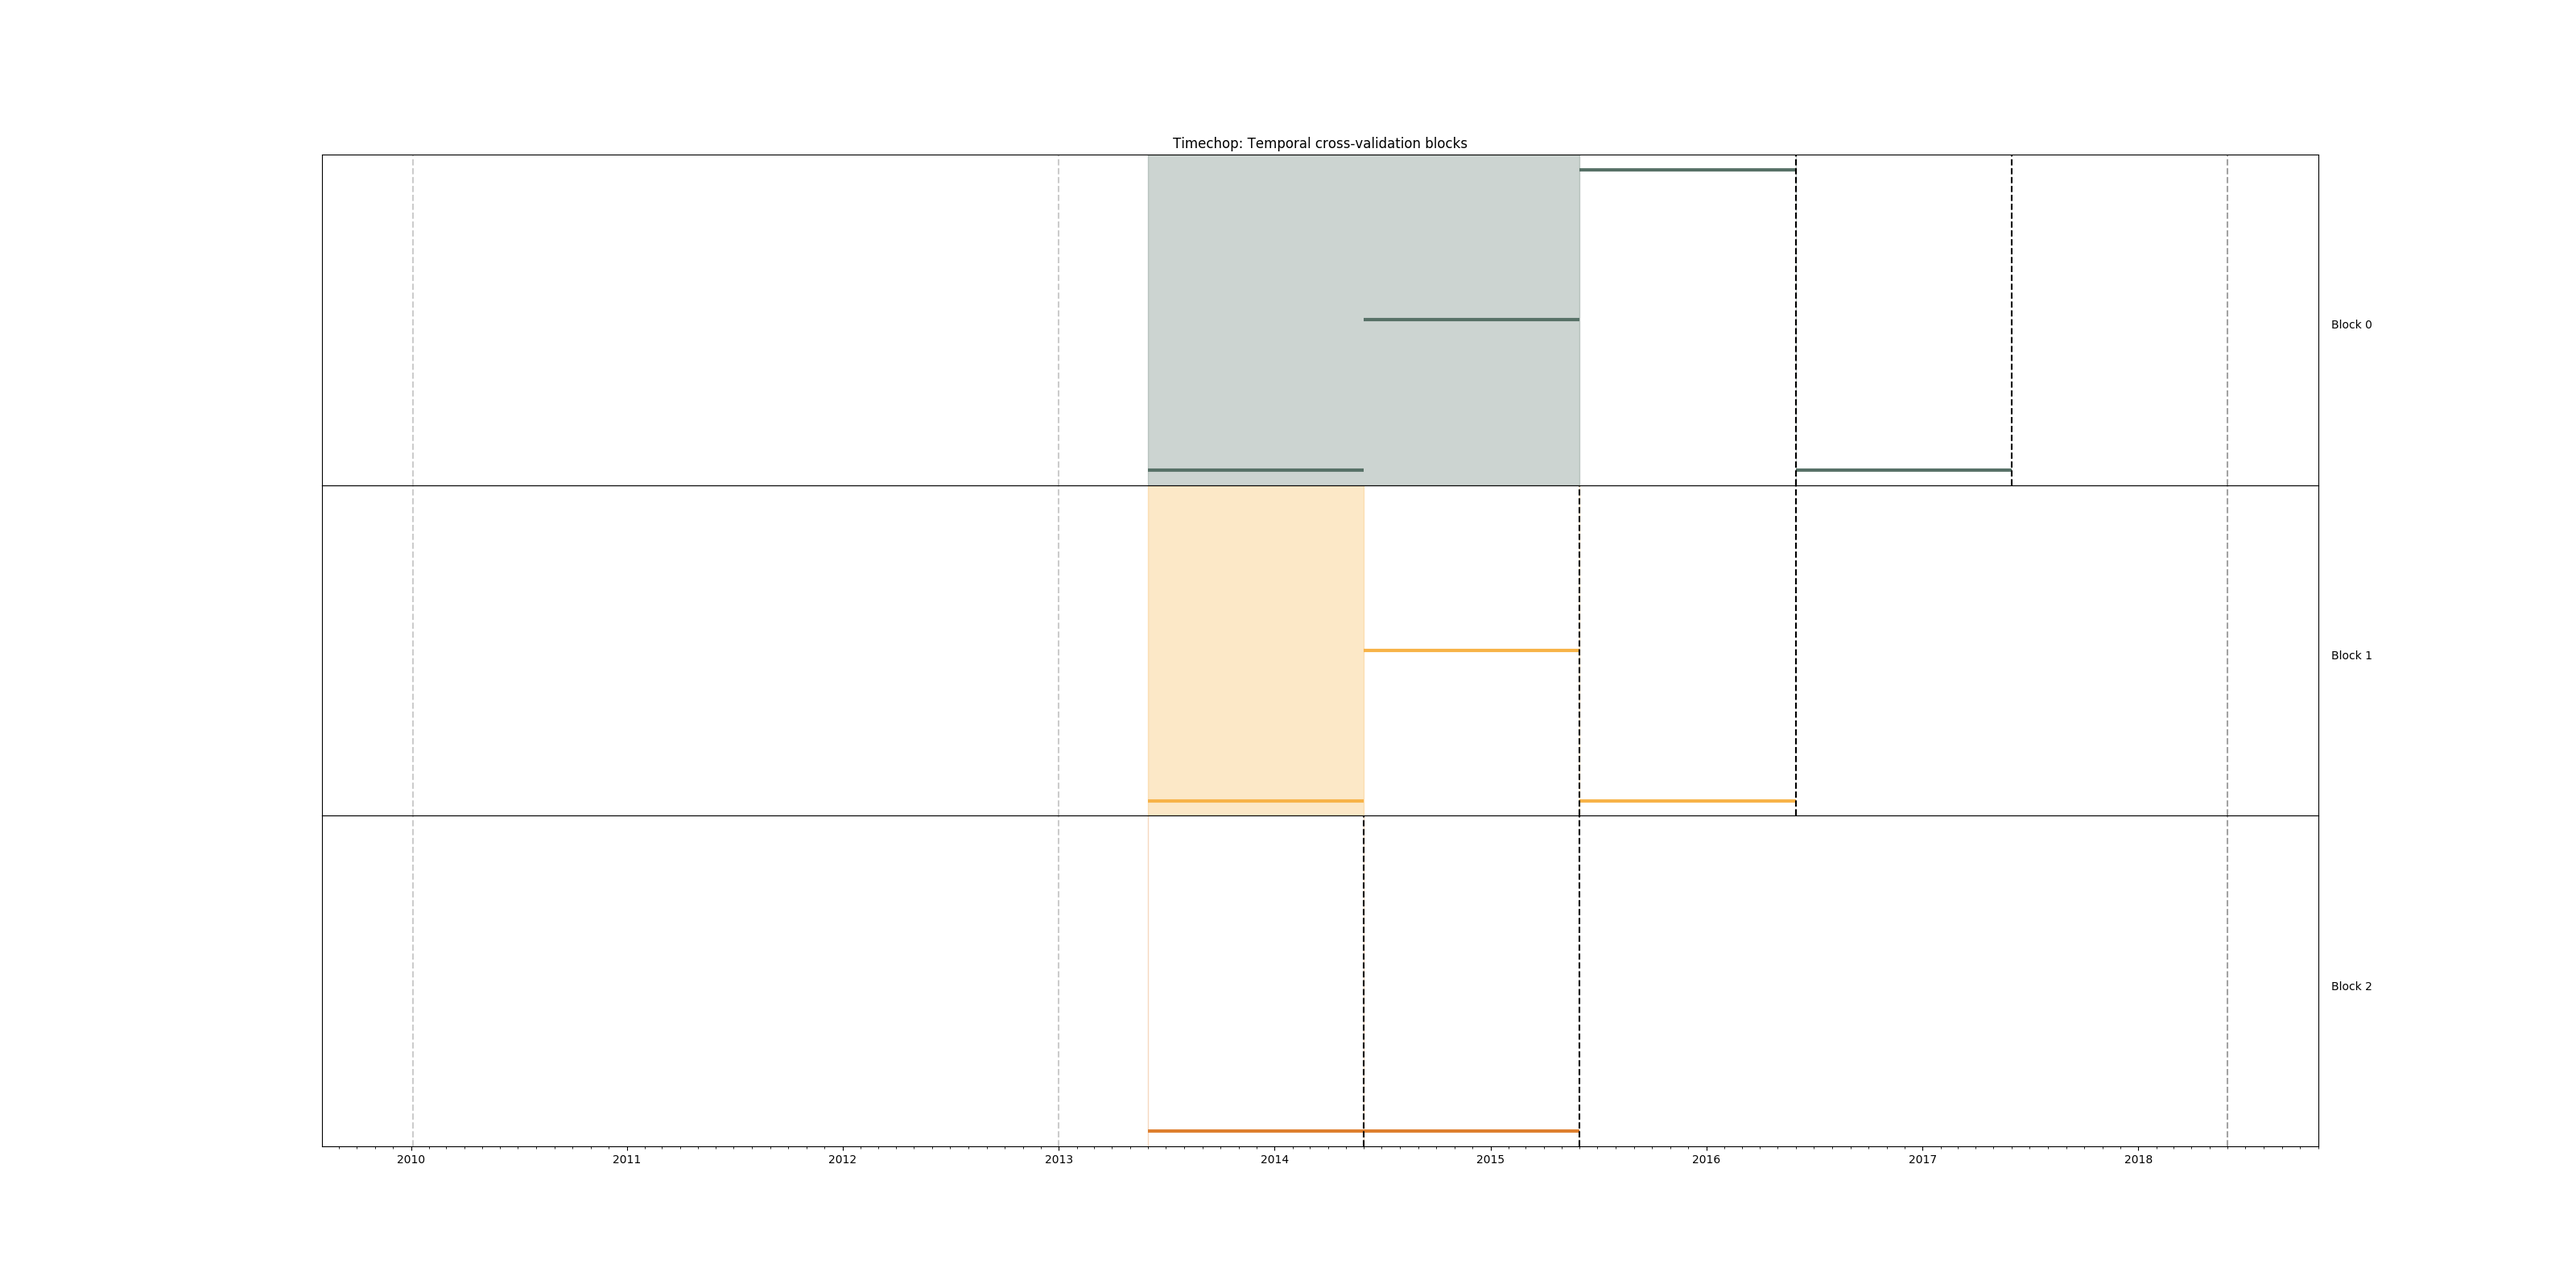
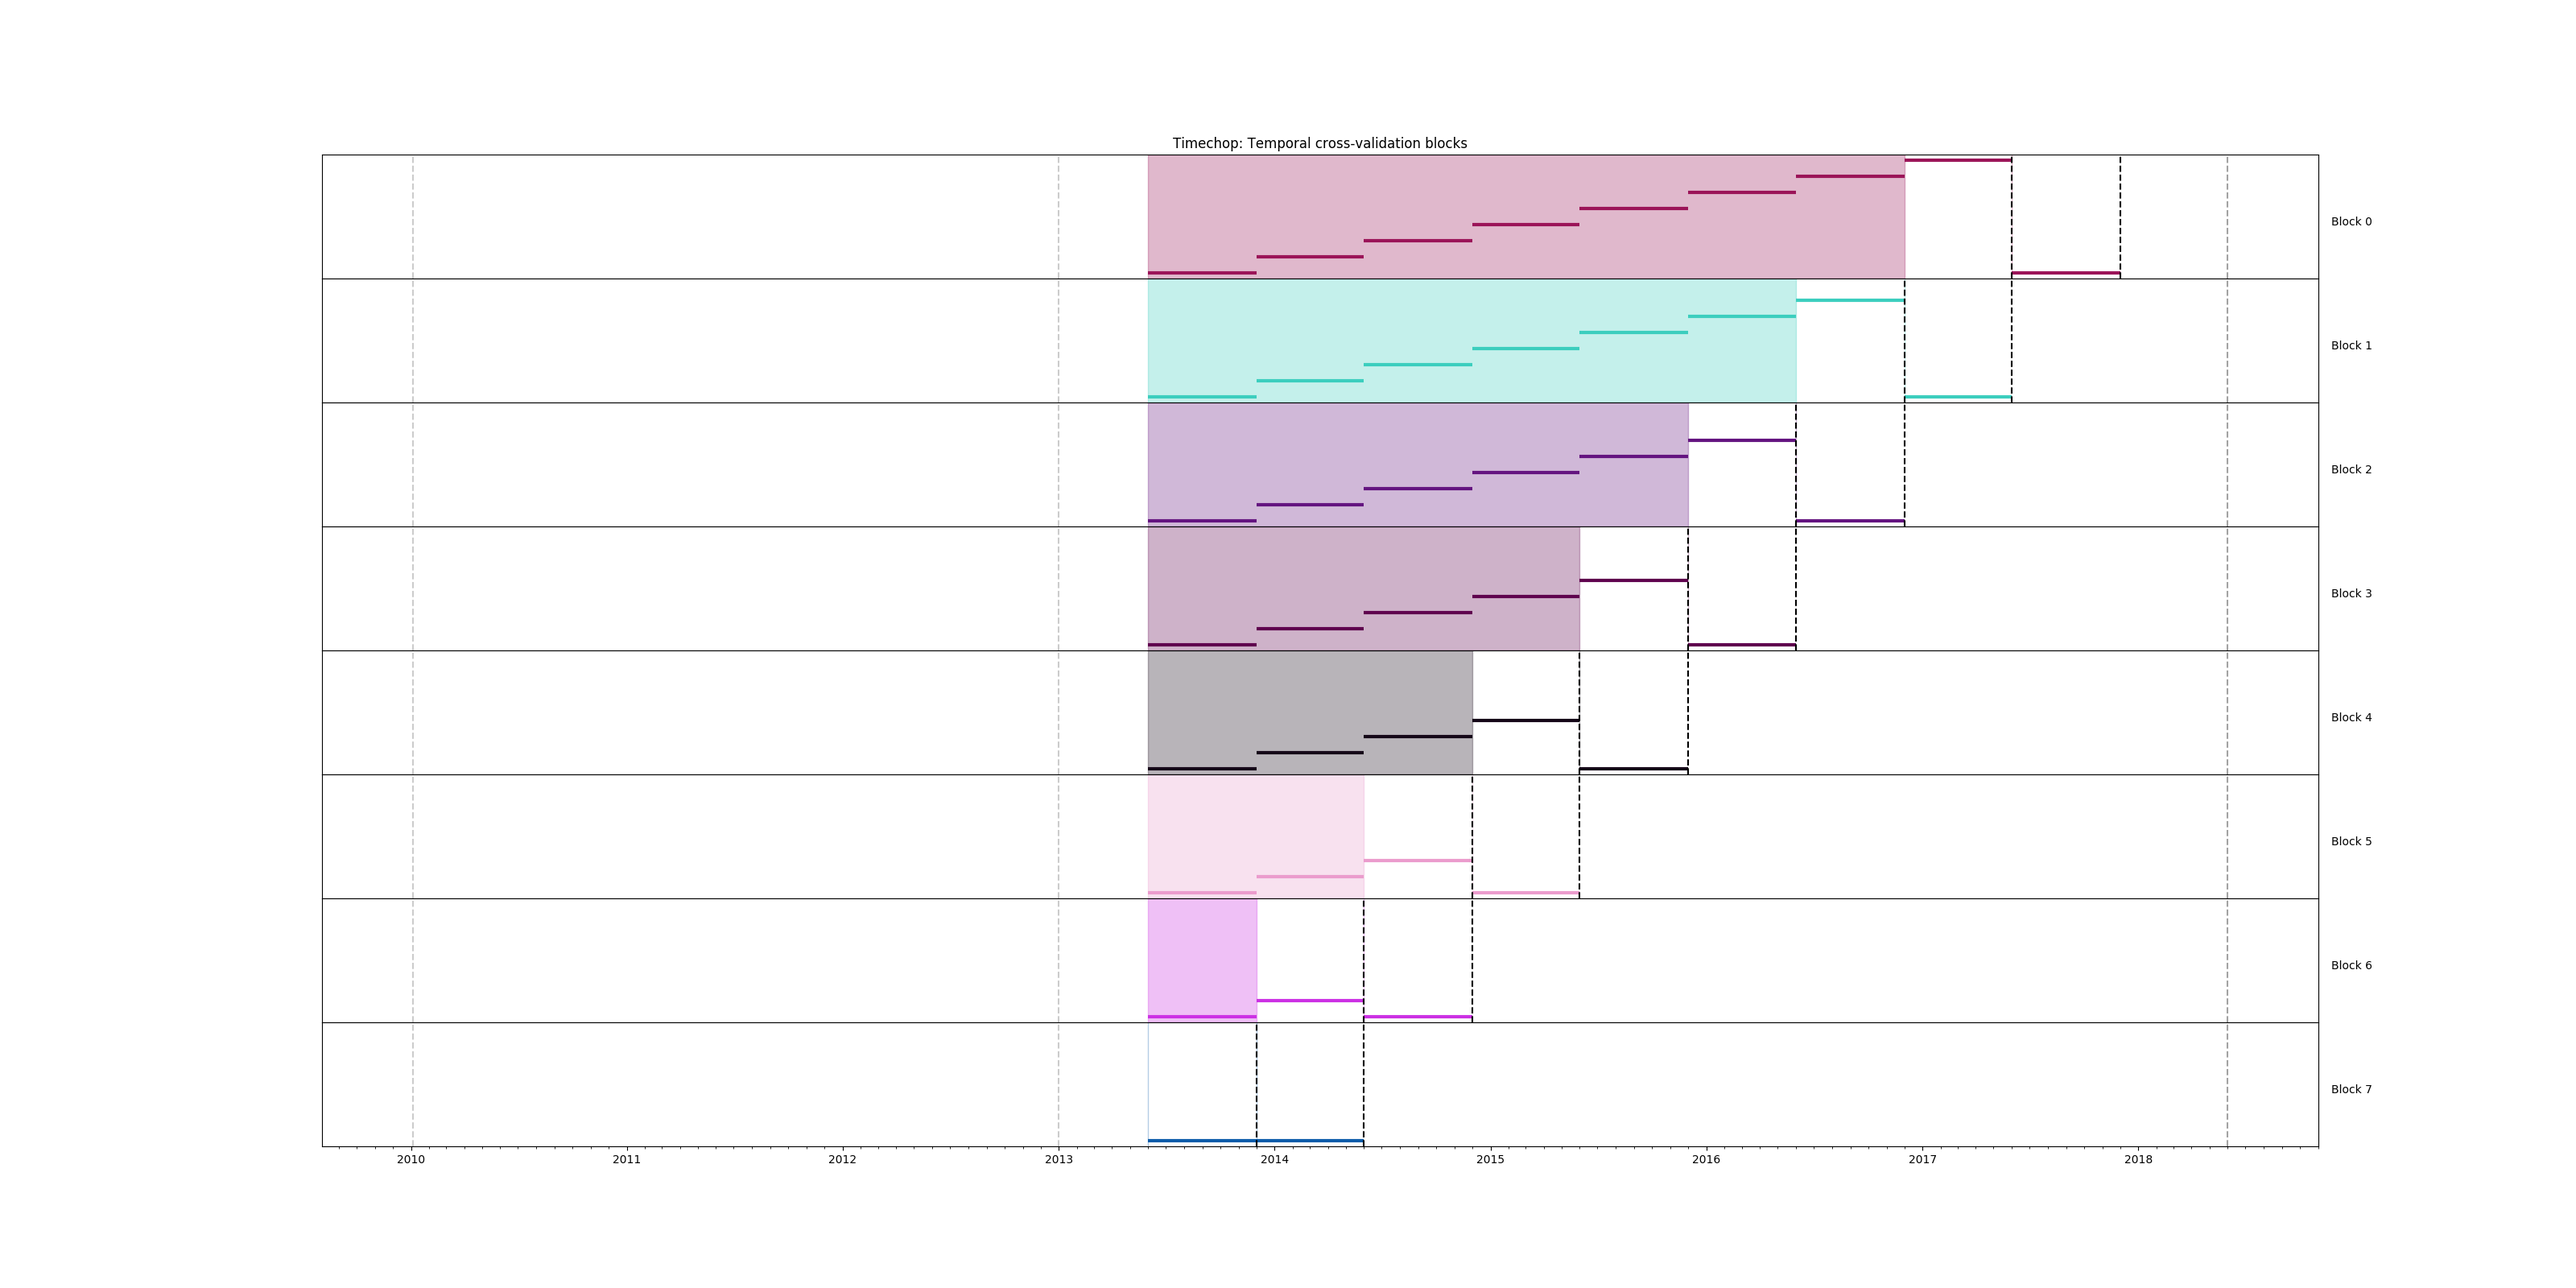
EIS updating …

diff --git a/docs/sources/dirtyduck/eis.md b/docs/sources/dirtyduck/eis.md
@@ -1,15 +1,13 @@
-# An Early Intervention System
+# An Early Intervention System: Chicago food inspections
 
 !!! warning "Before continue, Did you…?"
-    This case studie, part of the dirtyduck tutorial,  assumes that you already setup the
+    This case study, part of the dirtyduck tutorial,  assumes that you already setup the
     tutorial’s infrastructure and load the dataset.
 
     - If you didn’t setup the infrastructure go [here](infrastructure.md),
 
     - If you didn't load the data, you can do it very [quickly](for_the_impatient.md)
       or you can follow all the [steps and explanations about the data](data_preparation.md).
-
-
 
 
 ## Problem description
@@ -149,7 +147,11 @@ cohort_config:
 ## Modeling Using Machine Learning
 
 We need to specify the temporal configuration, this section should
-reflect the *operationalization* of the model,
+reflect the *operationalization* of the model.
+
+Let’s assume that every facility owner needs 6 months to prepare for
+an inspection. So, the model needs to answer the question: *Will my
+restaurant be inspected in the next 6 months?*
 
 ### Temporal configuration
 
@@ -160,13 +162,13 @@ reflect the *operationalization* of the model,
         label_start_time: '2013-01-01'
         label_end_time: '2018-06-01'
 
-        model_update_frequency: '1y'
-        training_label_timespans: ['1y']
-        training_as_of_date_frequencies: '1y'
+        model_update_frequency: '6month'
+        training_label_timespans: ['6month']
+        training_as_of_date_frequencies: '6month'
 
-        test_durations: '1y'
-        test_label_timespans: ['1y']
-        test_as_of_date_frequencies: '1y'
+        test_durations: '6month'
+        test_label_timespans: ['6month']
+        test_as_of_date_frequencies: '6month'
 
         max_training_histories: '5y'
 ```
@@ -188,7 +190,7 @@ triage experiment experiments/eis_01.yaml --show-timechop
 ![img](images/triage/eis_01.png)
 *Figure. Temporal blocks for the Early Warning System. We want to
 predict the most likely facilities to be inspected in the
-following year.*
+following 6 months*
 
 
 ###  Features
@@ -299,7 +301,7 @@ We specify that we want to use all possible feature-group combinations for train
          - 'risks'
          - 'inspection_types'
 
-    feature_group_strategies: ['all', 'leave-one-out', 'leave-one-in']
+    feature_group_strategies: ['all']
 ```
 
 i.e. `all` will train models with all the features groups,
@@ -309,29 +311,54 @@ the features except one.
 
 ###  Algorithm and hyperparameters
 
-We will collapse the baseline (`DummyClassifier`) and the
-    exploratory configuration together:
+We will begin defining some basic models as baselines.
 
 ```yaml
-    grid_config:
-        'sklearn.tree.DecisionTreeClassifier':
-            max_depth: [2,null]
-        'sklearn.ensemble.RandomForestClassifier':
-            max_features: ['sqrt']
-            criterion: ['gini']
-            n_estimators: [500]
-            min_samples_leaf: [1]
-            min_samples_split: [50]
-        'sklearn.dummy.DummyClassifier':
-            strategy: [prior]
+'triage.component.catwalk.baselines.thresholders.SimpleThresholder':
+  rules:
+    - ['inspections_entity_id_1month_total_count > 0']
+    - ['results_entity_id_1month_result_fail_sum > 0']
+    - ['risks_entity_id_1month_risk_high_sum > 0']
+
+'triage.component.catwalk.baselines.rankers.PercentileRankOneFeature':
+  feature: ['risks_entity_id_all_risk_high_sum', 'inspections_entity_id_all_total_count', 'results_entity_id_all_result_fail_sum']
+  descend: [True]
+
+'sklearn.dummy.DummyClassifier':
+  strategy: ['prior', 'stratified']
+
+'sklearn.tree.DecisionTreeClassifier':
+  criterion: ['gini']
+  max_features: ['sqrt']
+  max_depth: [1,2,5,~]
+  min_samples_split: [2]
+
+'triage.component.catwalk.estimators.classifiers.ScaledLogisticRegression':
+  penalty: ['l1','l2']
+  C: [0.000001, 0.0001, 0.01,  1.0]
 ```
 
-`triage` will create **36** *model groups*: **4** algorithms and
-hyperparameters (2 `DecisionTreeClassifier`, 1
-`RandomForestClassifier`, 1 `DummyClassifier`) &times; **9**
-features sets (1 `all`, 4 `leave-one-out`, `4 leave-one-in`). The
-total number of *models* is three times that (we have 3 time
-blocks, so **108** models).
+!!! info "How did I know the name of the features?"
+    `triage` has a very useful utility called `featuretest`
+
+    ```shell
+        triage featuretest experiments/eis_01.yaml 2018-01-01
+    ```
+
+    You can use for testing the definition of your features and also
+    to see if the way that the features are calculated is actually
+    what do you expect.
+
+    Here we are using it just to check the name of the generated features.
+
+
+`triage` will create **20** *model groups*: algorithms and
+hyperparameters (4 `DecisionTreeClassifier`, 8
+`ScaledLogisticRegression`, 2 `DummyClassifier`, 3 `SimpleThresholder`
+and 3 `PercentileRankOneFeature`) &times; **1**
+features sets (1 `all`). The
+total number of *models* is three times that (we have 8 time
+blocks, so **160** models).
 
 ```yaml
     scoring:
@@ -413,7 +440,7 @@ After the experiment finishes, we can create the following table:
         array_agg(model_id order by train_end_time asc) as models,
         array_agg(train_end_time::date order by train_end_time asc) as times,
         array_agg(to_char(stochastic_value, '0.999') order by
-    train_end_time asc) as "precision@10% ("
+    train_end_time asc) as "precision@10% (stochastic)"
     from
         model_metadata.models
         join
@@ -471,6 +498,83 @@ After the experiment finishes, we can create the following table:
              77 | sklearn.dummy.DummyClassifier           | {"strategy": "prior"}                                                                                              | {risks}                                | {199,217,235} | {2014-06-01,2015-06-01,2016-06-01} | {" 0.477"," 0.478"," 0.486"}
              78 | sklearn.ensemble.RandomForestClassifier | {"criterion": "gini", "max\_features": "sqrt", "n\_estimators": 500, "min\_samples\_leaf": 1, "min\_samples\_split": 50} | {inspection}                           | {200,218,236} | {2014-06-01,2015-06-01,2016-06-01} | {" 0.847"," 0.877"," 0.898"}
              79 | sklearn.dummy.DummyClassifier           | {"strategy": "prior"}                                                                                              | {inspection}                           | {201,219,237} | {2014-06-01,2015-06-01,2016-06-01} | {" 0.480"," 0.486"," 0.486"}
+
+
+## Let’s explore more: second grid
+
+
+After the *baseline* we will explore a more robust set of
+algorithms. We will use a different experiment config file:
+`eis_02.yaml`.
+
+The only differences between this experiment config file and the
+previous are in the `user_metadata` section:
+
+```yaml
+config_version: 'v7'
+
+model_comment: 'eis: 02'
+random_seed: 23895478
+
+user_metadata:
+  label_definition: 'inspected'
+  experiment_type: 'eis'
+  description: |
+    EIS 02
+  purpose: 'model creation'
+  org: 'DSaPP'
+  team: 'Tutorial'
+  author: 'Your name here'
+  etl_date: '2019-05-07'
+```
+
+and in the `grid_config`:
+
+
+```yaml
+
+grid_config:
+   ## Boosting
+   'sklearn.ensemble.AdaBoostClassifier':
+     n_estimators: [1000, 2000, 5000]
+
+   'sklearn.ensemble.GradientBoostingClassifier':
+     n_estimators: [1000, 2000, 10000]
+     learning_rate : [0.001, 0.01, 0.1, 1.0]
+     subsample: [0.5, 1.0]
+     min_samples_split: [2]
+     max_depth: [1,2,3,5]
+
+   ## Forest
+   'sklearn.tree.DecisionTreeClassifier':
+     criterion: ['gini']
+     max_depth: [2, 5, 10, 20]
+     min_samples_split: [2, 10, 50]
+
+   'sklearn.ensemble.RandomForestClassifier':
+     n_estimators: [10000]
+     criterion: ['gini']
+     max_depth: [2, 5, 10, 20]
+     max_features: ['sqrt','log2']
+     min_samples_split: [2, 10, 50]
+     n_jobs: [-1]
+
+   'sklearn.ensemble.ExtraTreesClassifier':
+     n_estimators: [10000]
+     criterion: ['gini']
+     max_depth: [2, 5, 10, 20]
+     max_features: ['sqrt','log2']
+     min_samples_split: [2, 10, 50]
+     n_jobs: [-1]
+```
+
+You can run this experiment with:
+
+```sh
+# Remember to run this in bastion  NOT in your laptop shell!
+triage experiment experiments/eis_02.yaml
+```
+
 
 
 ## Audition: So many models, how can I choose the best one?
@@ -850,7 +954,7 @@ predictions_query: |
 triage --tb crosstabs /triage/eis_crosstabs_config.yaml
 ```
 
-When it finish, you could explore the table with the following code:
+When it finishes, you could explore the table with the following code:
 
 ```sql
 with significant_features as (

diff --git a/docs/sources/dirtyduck/inspections.md b/docs/sources/dirtyduck/inspections.md
@@ -1,6 +1,17 @@
 
 # Resource prioritization systems: Chicago food inspections
 
+!!! warning "Before continue, Did you…?"
+    This case study, part of the dirtyduck tutorial,  assumes that you already setup the
+    tutorial’s infrastructure and load the dataset.
+
+    - If you didn’t setup the infrastructure go [here](infrastructure.md),
+
+    - If you didn't load the data, you can do it very [quickly](for_the_impatient.md)
+      or you can follow all the [steps and explanations about the data](data_preparation.md).
+
+
+
 
 ## Problem description
 
@@ -144,8 +155,13 @@ the baseline[^2]. It is also very fast to train ( `DummyClassifier` is
 not computationally expensive, so it will help us to verify that the
 experiment configuration is correct without waiting for a long time).
 
+!!! info "Experiment description file"
+    You could check the meaning about experiment description files
+    (or configuration files) in [*A deeper look into triage*](triage_intro.md).
+
+
 We need to write the experiment config file for that. Let's break it
-down and explain the sections.
+down and explain their sections.
 
 The config file for this first experiment is located in
 [triage/experiments/inspections_baseline.yaml](./triage/experiments/inspections_baseline.yaml).
